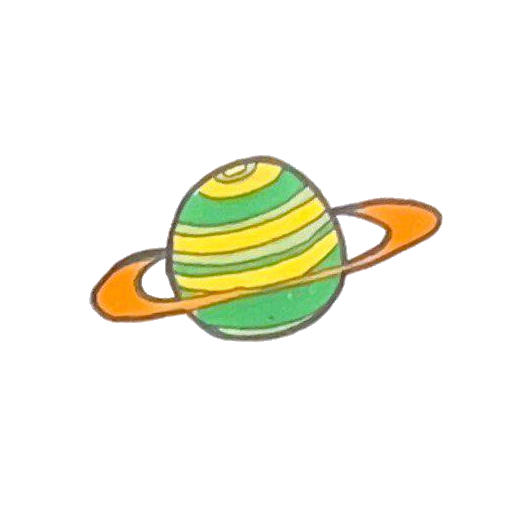
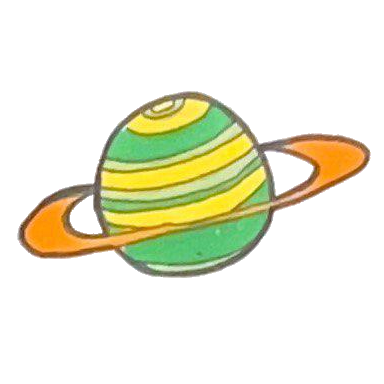
企画ページに星を追加

Changed region(s): [[0.0312, 0.2188, 0.9688, 0.75]]

diff --git a/src/components/project/Project.js b/src/components/project/Project.js
@@ -1,54 +1,160 @@
 import { Pages } from "../Pages";
 import backGround from "../../img/backGround/space.jpg"
+import planet_1 from "../../img/planet_1.png";
+import planet_2 from "../../img/astronaut.png";
 import "../../css/pageStyle.css";
 import "./projectStyle.css";
 import projectData from "../../json/projectData.json";
 
 import { useEffect } from "react";
+import { eventWrapper } from "@testing-library/user-event/dist/utils";
 
 function Project() {
 
-  /*function getApi(){
-    const request = new XMLHttpRequest();
-    request.open("GET", "https://dog.ceo/api/breeds/image/random",true);
-    
-    request.send();
 
-    request.addEventListener("load",function(){
-      console.log(this.responseText);
-
-      const apiData=JSON.parse(this.responseText);
-      let img = document.getElementById("dogImage");
-      img.src=apiData.message;
-
-    });
-  }*/
-
+  //1度だけ実行
   useEffect(() => {
     //2回実行されないよう一時的にindex.jsの<React.StrictMode>を外している
 
-    const parent = document.getElementById("projectSelectBar");
-
+    let parent = document.getElementById("projectSelectBar");
     for (let i in projectData) {
       if (i == 0) continue;
 
-      const element = document.createElement("button");
+      let element = document.createElement("button"); //divとかでもいい
       element.classList.add("projectSelectButton");
       element.innerText = projectData[i][0];
-      element.addEventListener("click",changeGalaxy);
+      element.addEventListener("click", () => changeGalaxy(i));
       parent.appendChild(element);
+    }
+
+    CreatePlanets(1); //初期設定:1年生の星を表示
+    //ラベルを表示
+    let planetText = document.getElementsByClassName("planetText");
+    for (let i = 0; i < planetText.length; i++) {
+      planetText[i].classList.remove("invisible");
     }
 
   }, []);
 
-  function changeGalaxy(){
-    const target = document.getElementById("planetArea");
-    target.style.animationTimingFunction="ease-in";
-    target.style.animationName="fadeOut";
+  //最終的にはcreateElementではなくひとまとまりの要素を追加できるようにしたい
+
+  function changeGalaxy(galaxyNum) {
+    const planetArea = document.getElementById("planetArea");
+
+    //ラベルを非表示
+    let planetText = document.getElementsByClassName("planetText"); //競合注意
+    for (let i = 0; i < planetText.length; i++) {
+      planetText[i].classList.add("invisible");
+    }
+
+    planetArea.style.animationTimingFunction = "ease-in";
+    planetArea.style.animationName = "fadeOut";
     setTimeout(() => {
-      target.style.animationTimingFunction="ease-out";
-      target.style.animationName="fadeIn";
-  }, 800);
+      CreatePlanets(galaxyNum);
+
+      planetArea.style.animationTimingFunction = "ease-out";
+      planetArea.style.animationName = "fadeIn";
+
+    }, 800);
+
+    setTimeout(() => {
+      //ラベルを表示
+      planetText = document.getElementsByClassName("planetText");
+      for (let i = 0; i < planetText.length; i++) {
+        planetText[i].classList.remove("invisible");
+      }
+    }, 800+600);
+
+  }
+
+  function CreatePlanets(galaxyNum){
+    const planetArea = document.getElementById("planetArea");
+
+    //既存の星を削除
+    const removeTarget = document.getElementsByClassName("planetBox");
+    while (removeTarget.length > 0) {
+      removeTarget[0].remove();
+    }
+
+    //新たな星を作成
+    for (let i = 1; i < projectData[galaxyNum].length; i++) {
+      //planetImage,planetTextはplanetBoxの子要素
+      //planetBoxがplanetAreaの子要素になる
+      let planetBox = document.createElement("div");
+      planetBox.classList.add("planetBox");
+
+      let planetImage = document.createElement("img");
+      planetImage.classList.add("planetImage");
+      planetImage.style.animationDelay=parseInt(4000*i/(projectData[galaxyNum].length-1))+"ms";
+      planetImage.src = planet_1;
+
+      let planetText = document.createElement("p");
+      planetText.classList.add("planetText");
+      planetText.innerText = projectData[galaxyNum][i].groupName;
+      //ラベルを非表示
+      planetText.classList.add("invisible");
+
+      planetBox.appendChild(planetImage);
+      planetBox.appendChild(planetText);
+
+      planetArea.appendChild(planetBox);
+    }
+
+    //位置を設定
+    addRad=0;
+    SetPlanets(addRad);
+  }
+
+
+  //星の位置を設定
+  function SetPlanets(addRad) {
+    let planetBox = document.getElementsByClassName("planetBox");
+
+    if (planetBox.length == 0) {
+      //console.log("ない");
+    }
+    else {
+      for (let i = 0; i < planetBox.length; i++) {
+        const rad = i * 2 * Math.PI / planetBox.length + addRad;
+
+        const boxWidth = 30 + 10 * Math.cos(rad);
+
+        planetBox[i].style.left = 50-boxWidth/2 + 35 * Math.sin(rad) + "%";
+        planetBox[i].style.top = 45-boxWidth/2 + 15 * Math.cos(rad) + "%";
+
+        planetBox[i].style.zIndex = 1000 + parseInt(100 * Math.cos(rad));
+
+        planetBox[i].style.width = boxWidth + "%";
+        planetBox[i].style.height = boxWidth + "%";
+      }
+    }
+
+  }
+
+
+  var prePos = {x:0,y:0};
+  var addRad = 0; //角度(ラジアン)
+
+  //置かれた指の位置を取得
+  function SetPrePos(e){
+    //e.preventDefault();
+    prePos.x=e.touches[0].clientX;
+    prePos.y=e.touches[0].clientY;
+
+    SetPlanets(addRad);
+  }
+
+  //スクロールした際の星の移動
+  function RotatePlanets(e) {
+    const pos={
+      x:e.touches[0].clientX,
+      y:e.touches[0].clientY
+    };
+    
+    addRad+=(pos.x-prePos.x)/50;
+    prePos.x=pos.x;
+    prePos.y=pos.y;
+    SetPlanets(addRad);
   }
 
   return (
@@ -57,7 +163,7 @@ function Project() {
 
       <div className="moitonArea responsiveWidth">
         <div id="projectSelectBar" className="projectSelectBar"></div>
-        <div id="planetArea" className="planetArea"></div>
+        <div id="planetArea" className="planetArea" onTouchStart={SetPrePos} onTouchMove={RotatePlanets}></div>
       </div>
 
       <div className="contents">

diff --git a/src/components/project/projectStyle.css b/src/components/project/projectStyle.css
@@ -11,8 +11,8 @@
     margin-left: auto;
     margin-right: auto;
     top: 5%;
-    width: 90%;
-    height: 4rem; /*ボタンの高さよりスクロールバー分大きくとる*/
+    width: 80%;
+    height: 5rem; /*ボタンの高さよりスクロールバー分大きくとる*/
     white-space: nowrap; /*折り返しなし*/
     overflow-x: scroll;
     overflow-y: hidden;
@@ -31,8 +31,8 @@
 }
 
 .projectSelectButton {
-    height: 3rem;
-    width: 6rem;
+    height: 4rem;
+    width: 5rem;
 }
 
 .planetArea{
@@ -73,4 +73,46 @@
         height: 60%;
         top: 10%;
     }
+}
+
+.planetBox{
+    position: absolute;
+    top: 50%;
+    left: 30%;
+    width: 30%;
+    height: 30%;
+    /*background-color: yellowgreen;*/
+}
+
+.planetImage{
+    position: relative;
+    width: 100%;
+    top: 5%;
+
+    animation-name: planetImageAnimation;
+    animation-duration: 2s;
+    animation-timing-function: ease-in-out;
+    animation-iteration-count: infinite;
+    animation-direction: alternate;
+
+    /*filter: brightness(0.5);*/
+}
+
+@keyframes planetImageAnimation {
+    0%{
+        top: 5%;
+    }
+    100%{
+        top: -5%;
+    }
+}
+
+.planetText{
+    position: relative;
+    text-align: center;
+    margin-left: auto;
+    margin-right: auto;
+    background-color: aliceblue;
+    width: 5rem;
+    top: -2rem;
 }

diff --git a/src/App.js b/src/App.js
@@ -15,6 +15,7 @@ import './index.css';
 import { BrowserRouter, Routes, Route } from 'react-router-dom';
 
 function App() {
+  //<FloatNotice>第一体育館にて<br />「青春がしたい平川」<br />公演中！</FloatNotice>
 
   return (
     <div id="webBackGround" className="responsiveWidth">
@@ -29,7 +30,6 @@ function App() {
         </Routes>
       </BrowserRouter>
 
-      <FloatNotice>第一体育館にて<br />「青春がしたい平川」<br />公演中！</FloatNotice>
       <Footer />
       <MenuBar />
     </div>
